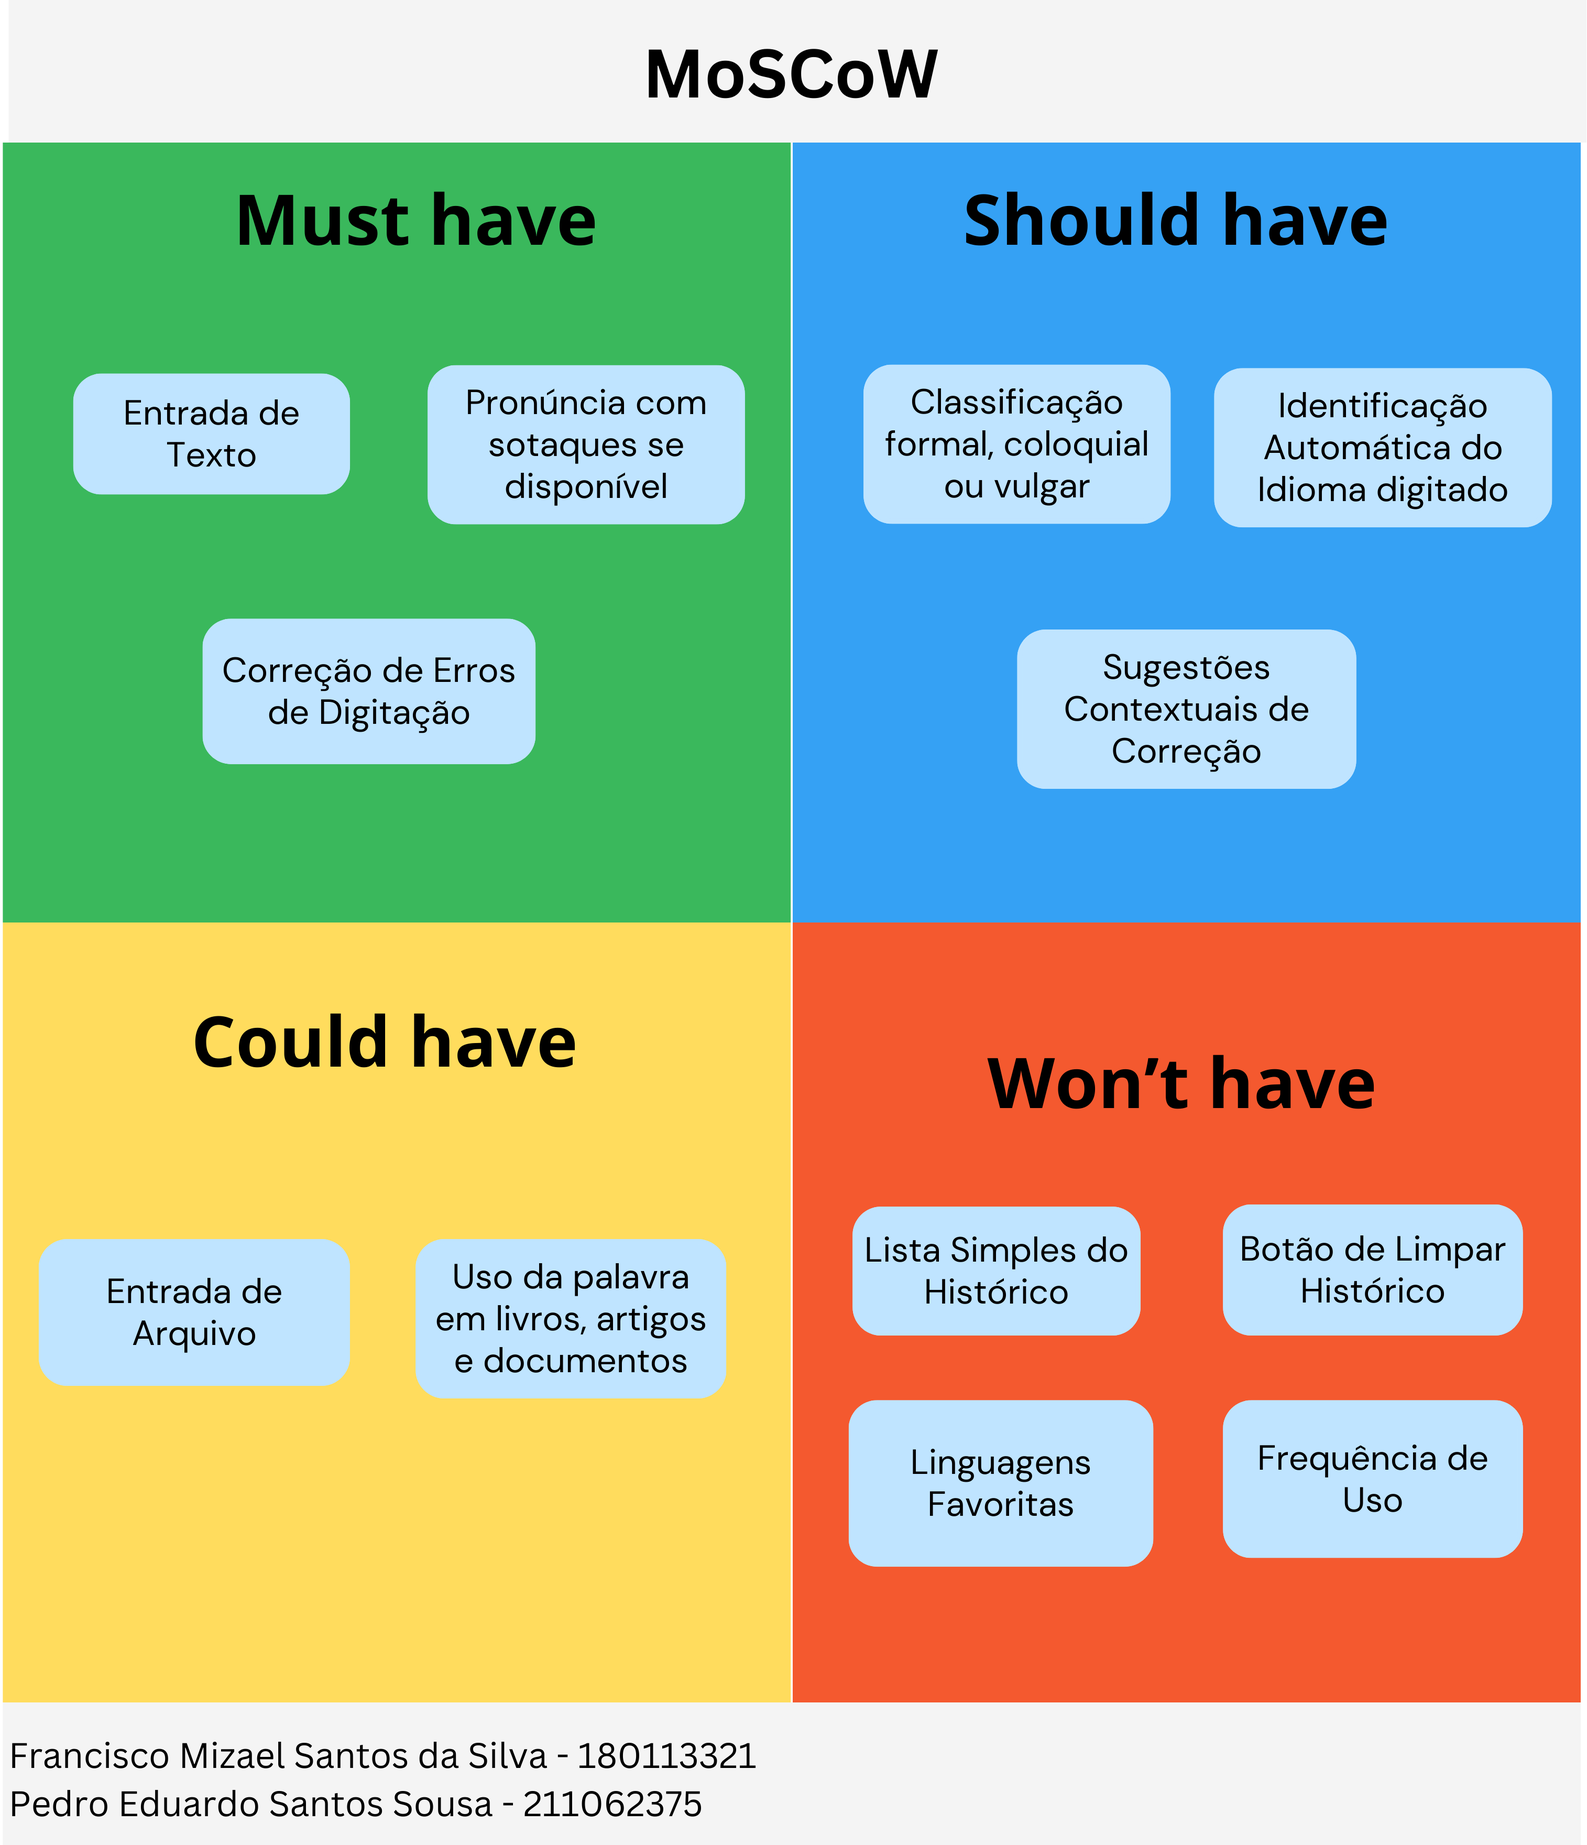
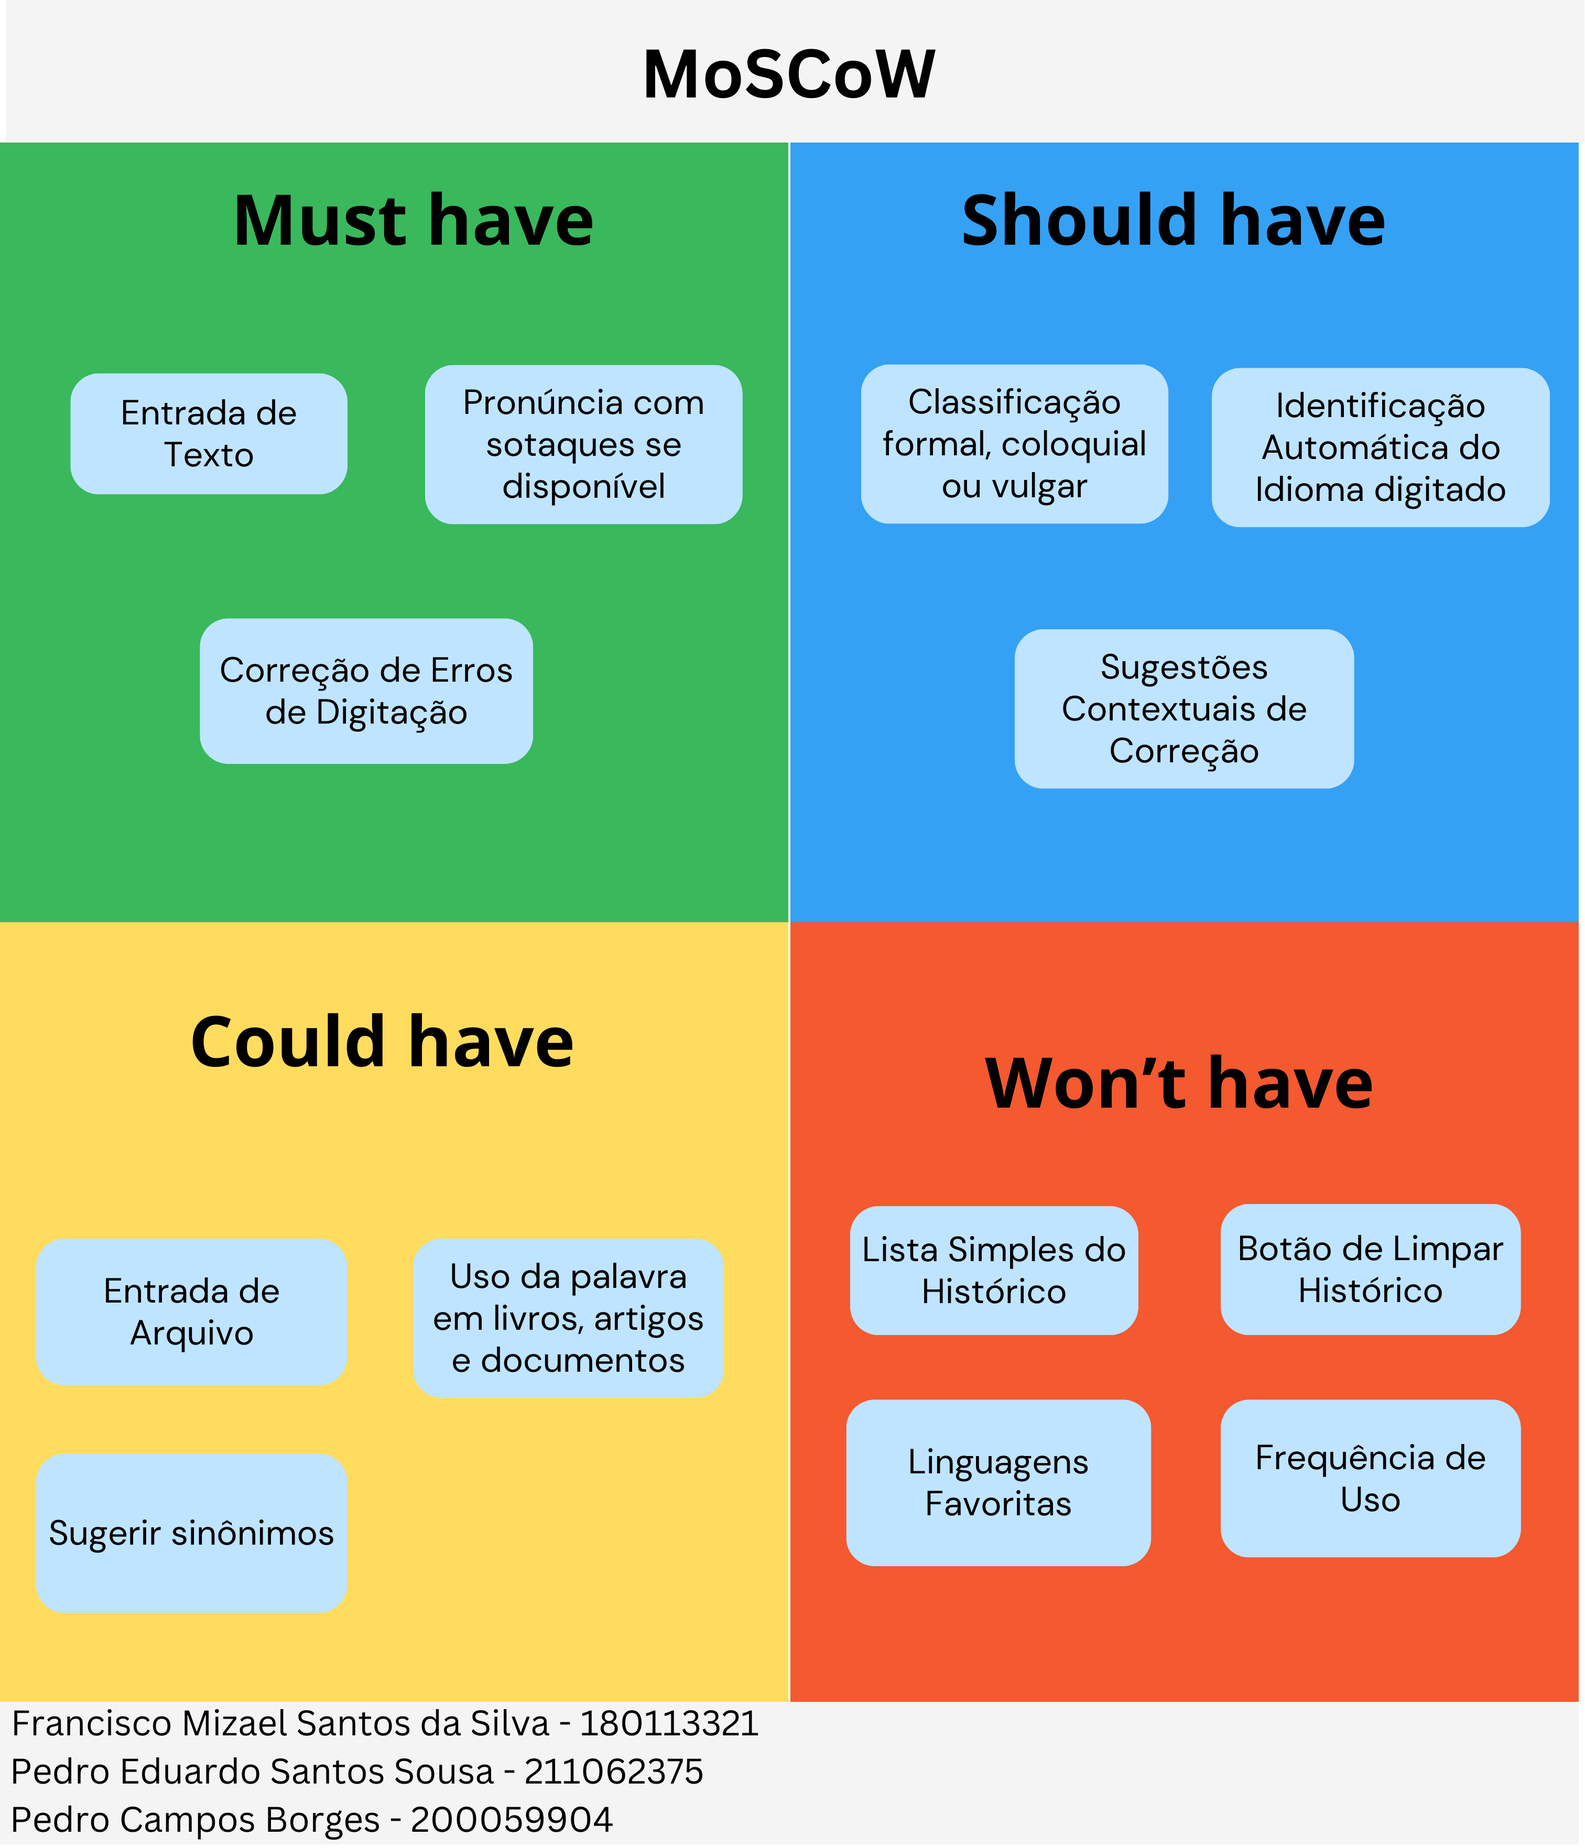
add: participacao

diff --git a/docs/Base/1.3.ParticipacoesBase.md b/docs/Base/1.3.ParticipacoesBase.md
@@ -3,16 +3,17 @@
 Breve relato sobre as participações/contribuições de cada membro à entrega.
 TODOS DEVEM PARTICIPAR, MOSTRANDO SEUS PONTOS DE VISTA E COMO COLABORARAM NESSA ETAPA DA ENTREGA.
 
-|                   Nome do Membro                    |                                                                                                                                                                                                   Contribuição                                                                                                                                                                                                    | Significância da Contribuição para o Projeto (Excelente/Boa/Regular/Ruim/Nula) |
-| :-------------------------------------------------: | :---------------------------------------------------------------------------------------------------------------------------------------------------------------------------------------------------------------------------------------------------------------------------------------------------------------------------------------------------------------------------------------------------------------: | :----------------------------------------------------------------------------: |
-|     [Daniel Oda](https://github.com/danieloda)      |                      **1.** Participação na Reunião Inicial, colaborando com pontos de vista em relação a metodologia, elicitação e artefatos.<br> **2.** Participação no desenvolvimento do protótipo.<br> **3.** Desenvolvimento do documento 1.2 de Metodologias e Abordagens. <br> **4.** Participação na modelagem de visão geral do BPMN.<br> **5.** Revisão geral dos artefatos.<br>                       |                                   Excelente                                    |
-| [Jefferson Sena](https://github.com/JeffersonSenaa) |        **1.** Participação na Reunião Inicial, colaborando com pontos de vista em relação a metodologia, elicitação e artefatos.<br> **2.** Participação no desenvolvimento do protótipo de Alta Fidelidade.<br> **3.** Criação do documento da Modelagem BPMN 1.2 de Metodologias e Abordagens. <br> **4.** Participação na modelagem de visão geral do BPMN.<br> **5.** Revisão geral dos artefatos.<br>        |                                   Excelente                                    |
-| [Júlio César Costa](https://github.com/julnox) |        **1.** Participação na Reunião Inicial, colaborando com pontos de vista em relação a metodologia, elicitação e artefatos.<br> **2.** Participação no desenvolvimento do mapa mental.<br> **3.** Participação da Modelagem BPMN 1.2 de Metodologias e Abordagens. <br> **4.** Participação na modelagem de sprint review do BPMN.<br> **5.** Revisão geral dos artefatos.<br>        |                                   Excelente                                    |
-| [Marcus Vinicius Cunha Dantas](https://github.com/MarcusVcd) |        **1.** Participação na Reunião Inicial, colaborando com pontos de vista em relação a metodologia, elicitação e artefatos.<br> **2.** Participação no desenvolvimento do mapa mental.<br> **3.** Participação da Modelagem BPMN 1.2 de Metodologias e Abordagens. <br> **4.** Participação na modelagem de sprint review do BPMN.<br> **5.** Revisão geral dos artefatos.<br>        |                                   Excelente                                    |
-|  [Tiago Albuquerque](https://github.com/Tiago1604)  |    **1.** Participação na Reunião de criação da apresentação sobre a metodologia Crystal e desenvolvimento dos slides.<br> **2.** Participação no desenvolvimento do protótipo de alta fidelidade.<br> **3.** Participação na criação do documento de modelagem BPMN. <br> **4.** Participação na modelagem de visão geral do BPMN.<br> **5.** Revisão geral dos artefatos em que tive menor participação.<br>    |                                   Excelente                                    |
-| [Pedro Eduardo](https://github.com/PedroEduardoSS)  |                     **1.** Participação na Reunião de criação da apresentação sobre a metodologia Crystal e desenvolvimento dos slides.<br> **2.** Participação na fase de decisão.<br> **3.** Participação na criação do documento de modelagem BPMN. <br> **4.** Participação na modelagem do processo de desenvolviemnto do BPMN.<br> **5.** Revisão geral do projeto e dos artefatos.<br>                     |                                   Excelente                                    |
-|   [Francisco Mizael ](https://github.com/frmiza)    |                     **1.** Participação na Reunião de criação da apresentação sobre a metodologia Crystal e desenvolvimento dos slides.<br> **2.** Participação na fase de decisão.<br> **3.** Participação na criação do documento de modelagem BPMN. <br> **4.** Participação na modelagem do processo de desenvolvimento do BPMN.<br> **5.** Revisão geral do projeto e dos artefatos.<br>                     |                                   Excelente                                    |
-| [Pedro Torreão ](https://github.com/PedroTorreao21) |   **1.** Participação na Reunião de criação da apresentação sobre a metodologia Crystal e desenvolvimento dos slides.<br> **2.** Participação na fase de decisão.<br> **3.** Participação na criação do documento de modelagem BPMN. <br> **4.** Participação na modelagem do processo de desenvolvimento do BPMN.<br> **5.** Revisão geral do projeto e dos artefatos.<br> **6.** Realização do Brainstorming.   |                                   Excelente                                    |
-|   [Juan Pablo ](https://github.com/Juan-Ricarte)    | **1.** Participação na Reunião de criação da apresentação sobre a metodologia Crystal e desenvolvimento dos slides.<br> **2.** Participação na fase de decisão.<br> **3.** Participação na criação do documento de modelagem BPMN. <br> **4.** Participação na modelagem do processo de desenvolvimento do BPMN.<br> **5.** Revisão geral do projeto e dos artefatos.<br> **6.** Realização do Brainstorming.<br> |                                   Excelente                                    |
-|   [Renato Gabriel ](https://github.com/Osidious)    | **1.** Participação na Reunião de criação da apresentação sobre a metodologia Crystal e desenvolvimento dos slides.<br> **2.** Participação na fase de decisão.<br> **3.** Participação na criação do documento de modelagem BPMN. <br> **4.** Participação na modelagem do processo de desenvolvimento do BPMN.<br> **5.** Revisão geral do projeto e dos artefatos.<br> **6.** Realização do Brainstorming.<br> |                                   Excelente                                    |
-|   [Gabriel Barbosa](https://github.com/gabrie1barbosa)    | **1.** Participação na Reunião de criação da apresentação sobre a metodologia Crystal e desenvolvimento dos slides.<br> **2.** Participação na Reunião Inicial, colaborando com pontos de vista em relação a metodologia, elicitação e artefatos. <br> **3.** Participação na modelagem do processo de desenvolvimento do BPMN.<br> **4.** Revisão geral do projeto e dos artefatos.<br>  |                                   Boa                                   |
+|                        Nome do Membro                        |                                                                                                                                                                                                                                    Contribuição                                                                                                                                                                                                                                    | Significância da Contribuição para o Projeto (Excelente/Boa/Regular/Ruim/Nula) |
+|:------------------------------------------------------------:|:----------------------------------------------------------------------------------------------------------------------------------------------------------------------------------------------------------------------------------------------------------------------------------------------------------------------------------------------------------------------------------------------------------------------------------------------------------------------------------:| :----------------------------------------------------------------------------: |
+|          [Daniel Oda](https://github.com/danieloda)          |                                                       **1.** Participação na Reunião Inicial, colaborando com pontos de vista em relação a metodologia, elicitação e artefatos.<br> **2.** Participação no desenvolvimento do protótipo.<br> **3.** Desenvolvimento do documento 1.2 de Metodologias e Abordagens. <br> **4.** Participação na modelagem de visão geral do BPMN.<br> **5.** Revisão geral dos artefatos.<br>                                                       |                                   Excelente                                    |
+|     [Jefferson Sena](https://github.com/JeffersonSenaa)      |                                        **1.** Participação na Reunião Inicial, colaborando com pontos de vista em relação a metodologia, elicitação e artefatos.<br> **2.** Participação no desenvolvimento do protótipo de Alta Fidelidade.<br> **3.** Criação do documento da Modelagem BPMN 1.2 de Metodologias e Abordagens. <br> **4.** Participação na modelagem de visão geral do BPMN.<br> **5.** Revisão geral dos artefatos.<br>                                         |                                   Excelente                                    |
+|        [Júlio César Costa](https://github.com/julnox)        |                                                    **1.** Participação na Reunião Inicial, colaborando com pontos de vista em relação a metodologia, elicitação e artefatos.<br> **2.** Participação no desenvolvimento do mapa mental.<br> **3.** Participação da Modelagem BPMN 1.2 de Metodologias e Abordagens. <br> **4.** Participação na modelagem de sprint review do BPMN.<br> **5.** Revisão geral dos artefatos.<br>                                                    |                                   Excelente                                    |
+| [Marcus Vinicius Cunha Dantas](https://github.com/MarcusVcd) |                                                    **1.** Participação na Reunião Inicial, colaborando com pontos de vista em relação a metodologia, elicitação e artefatos.<br> **2.** Participação no desenvolvimento do mapa mental.<br> **3.** Participação da Modelagem BPMN 1.2 de Metodologias e Abordagens. <br> **4.** Participação na modelagem de sprint review do BPMN.<br> **5.** Revisão geral dos artefatos.<br>                                                    |                                   Excelente                                    |
+|      [Tiago Albuquerque](https://github.com/Tiago1604)       |                                    **1.** Participação na Reunião de criação da apresentação sobre a metodologia Crystal e desenvolvimento dos slides.<br> **2.** Participação no desenvolvimento do protótipo de alta fidelidade.<br> **3.** Participação na criação do documento de modelagem BPMN. <br> **4.** Participação na modelagem de visão geral do BPMN.<br> **5.** Revisão geral dos artefatos em que tive menor participação.<br>                                     |                                   Excelente                                    |
+|      [Pedro Eduardo](https://github.com/PedroEduardoSS)      |                                                     **1.** Participação na Reunião de criação da apresentação sobre a metodologia Crystal e desenvolvimento dos slides.<br> **2.** Participação na fase de decisão.<br> **3.** Participação na criação do documento de modelagem BPMN. <br> **4.** Participação na modelagem do processo de desenvolviemnto do BPMN.<br> **5.** Revisão geral do projeto e dos artefatos.<br>                                                      |                                   Excelente                                    |
+|        [Francisco Mizael ](https://github.com/frmiza)        |                                                     **1.** Participação na Reunião de criação da apresentação sobre a metodologia Crystal e desenvolvimento dos slides.<br> **2.** Participação na fase de decisão.<br> **3.** Participação na criação do documento de modelagem BPMN. <br> **4.** Participação na modelagem do processo de desenvolvimento do BPMN.<br> **5.** Revisão geral do projeto e dos artefatos.<br>                                                      |                                   Excelente                                    |
+|     [Pedro Torreão ](https://github.com/PedroTorreao21)      |                                   **1.** Participação na Reunião de criação da apresentação sobre a metodologia Crystal e desenvolvimento dos slides.<br> **2.** Participação na fase de decisão.<br> **3.** Participação na criação do documento de modelagem BPMN. <br> **4.** Participação na modelagem do processo de desenvolvimento do BPMN.<br> **5.** Revisão geral do projeto e dos artefatos.<br> **6.** Realização do Brainstorming.                                    |                                   Excelente                                    |
+|        [Juan Pablo ](https://github.com/Juan-Ricarte)        |                                 **1.** Participação na Reunião de criação da apresentação sobre a metodologia Crystal e desenvolvimento dos slides.<br> **2.** Participação na fase de decisão.<br> **3.** Participação na criação do documento de modelagem BPMN. <br> **4.** Participação na modelagem do processo de desenvolvimento do BPMN.<br> **5.** Revisão geral do projeto e dos artefatos.<br> **6.** Realização do Brainstorming.<br>                                  |                                   Excelente                                    |
+|        [Renato Gabriel ](https://github.com/Osidious)        |                                 **1.** Participação na Reunião de criação da apresentação sobre a metodologia Crystal e desenvolvimento dos slides.<br> **2.** Participação na fase de decisão.<br> **3.** Participação na criação do documento de modelagem BPMN. <br> **4.** Participação na modelagem do processo de desenvolvimento do BPMN.<br> **5.** Revisão geral do projeto e dos artefatos.<br> **6.** Realização do Brainstorming.<br>                                  |                                   Excelente                                    |
+|     [Gabriel Barbosa](https://github.com/gabrie1barbosa)     |                                              **1.** Participação na Reunião de criação da apresentação sobre a metodologia Crystal e desenvolvimento dos slides.<br> **2.** Participação na Reunião Inicial, colaborando com pontos de vista em relação a metodologia, elicitação e artefatos. <br> **3.** Participação na modelagem do processo de desenvolvimento do BPMN.<br> **4.** Revisão geral do projeto e dos artefatos.<br>                                              |                                   Boa                                   |
+|       [Pedro Campos](https://github.com/pedrocampos0)        | **1.** Participação na Reunião de criação da apresentação sobre a metodologia Crystal e desenvolvimento dos slides.<br> **2.** Participação na Reunião Inicial de forma assíncrona (melhorando a ata e os pontos levantasdos). <br> **3.** Participação na modelagem do processo de desenvolvimento do BPMN.<br> **4.** Contribuição no sketch do mapa mental.<br> **5.** Contribuição no artefato de priorização MosCow.<br> **6.** Revisão geral do projeto e dos artefatos.<br> |                                   Excelente                                   |
